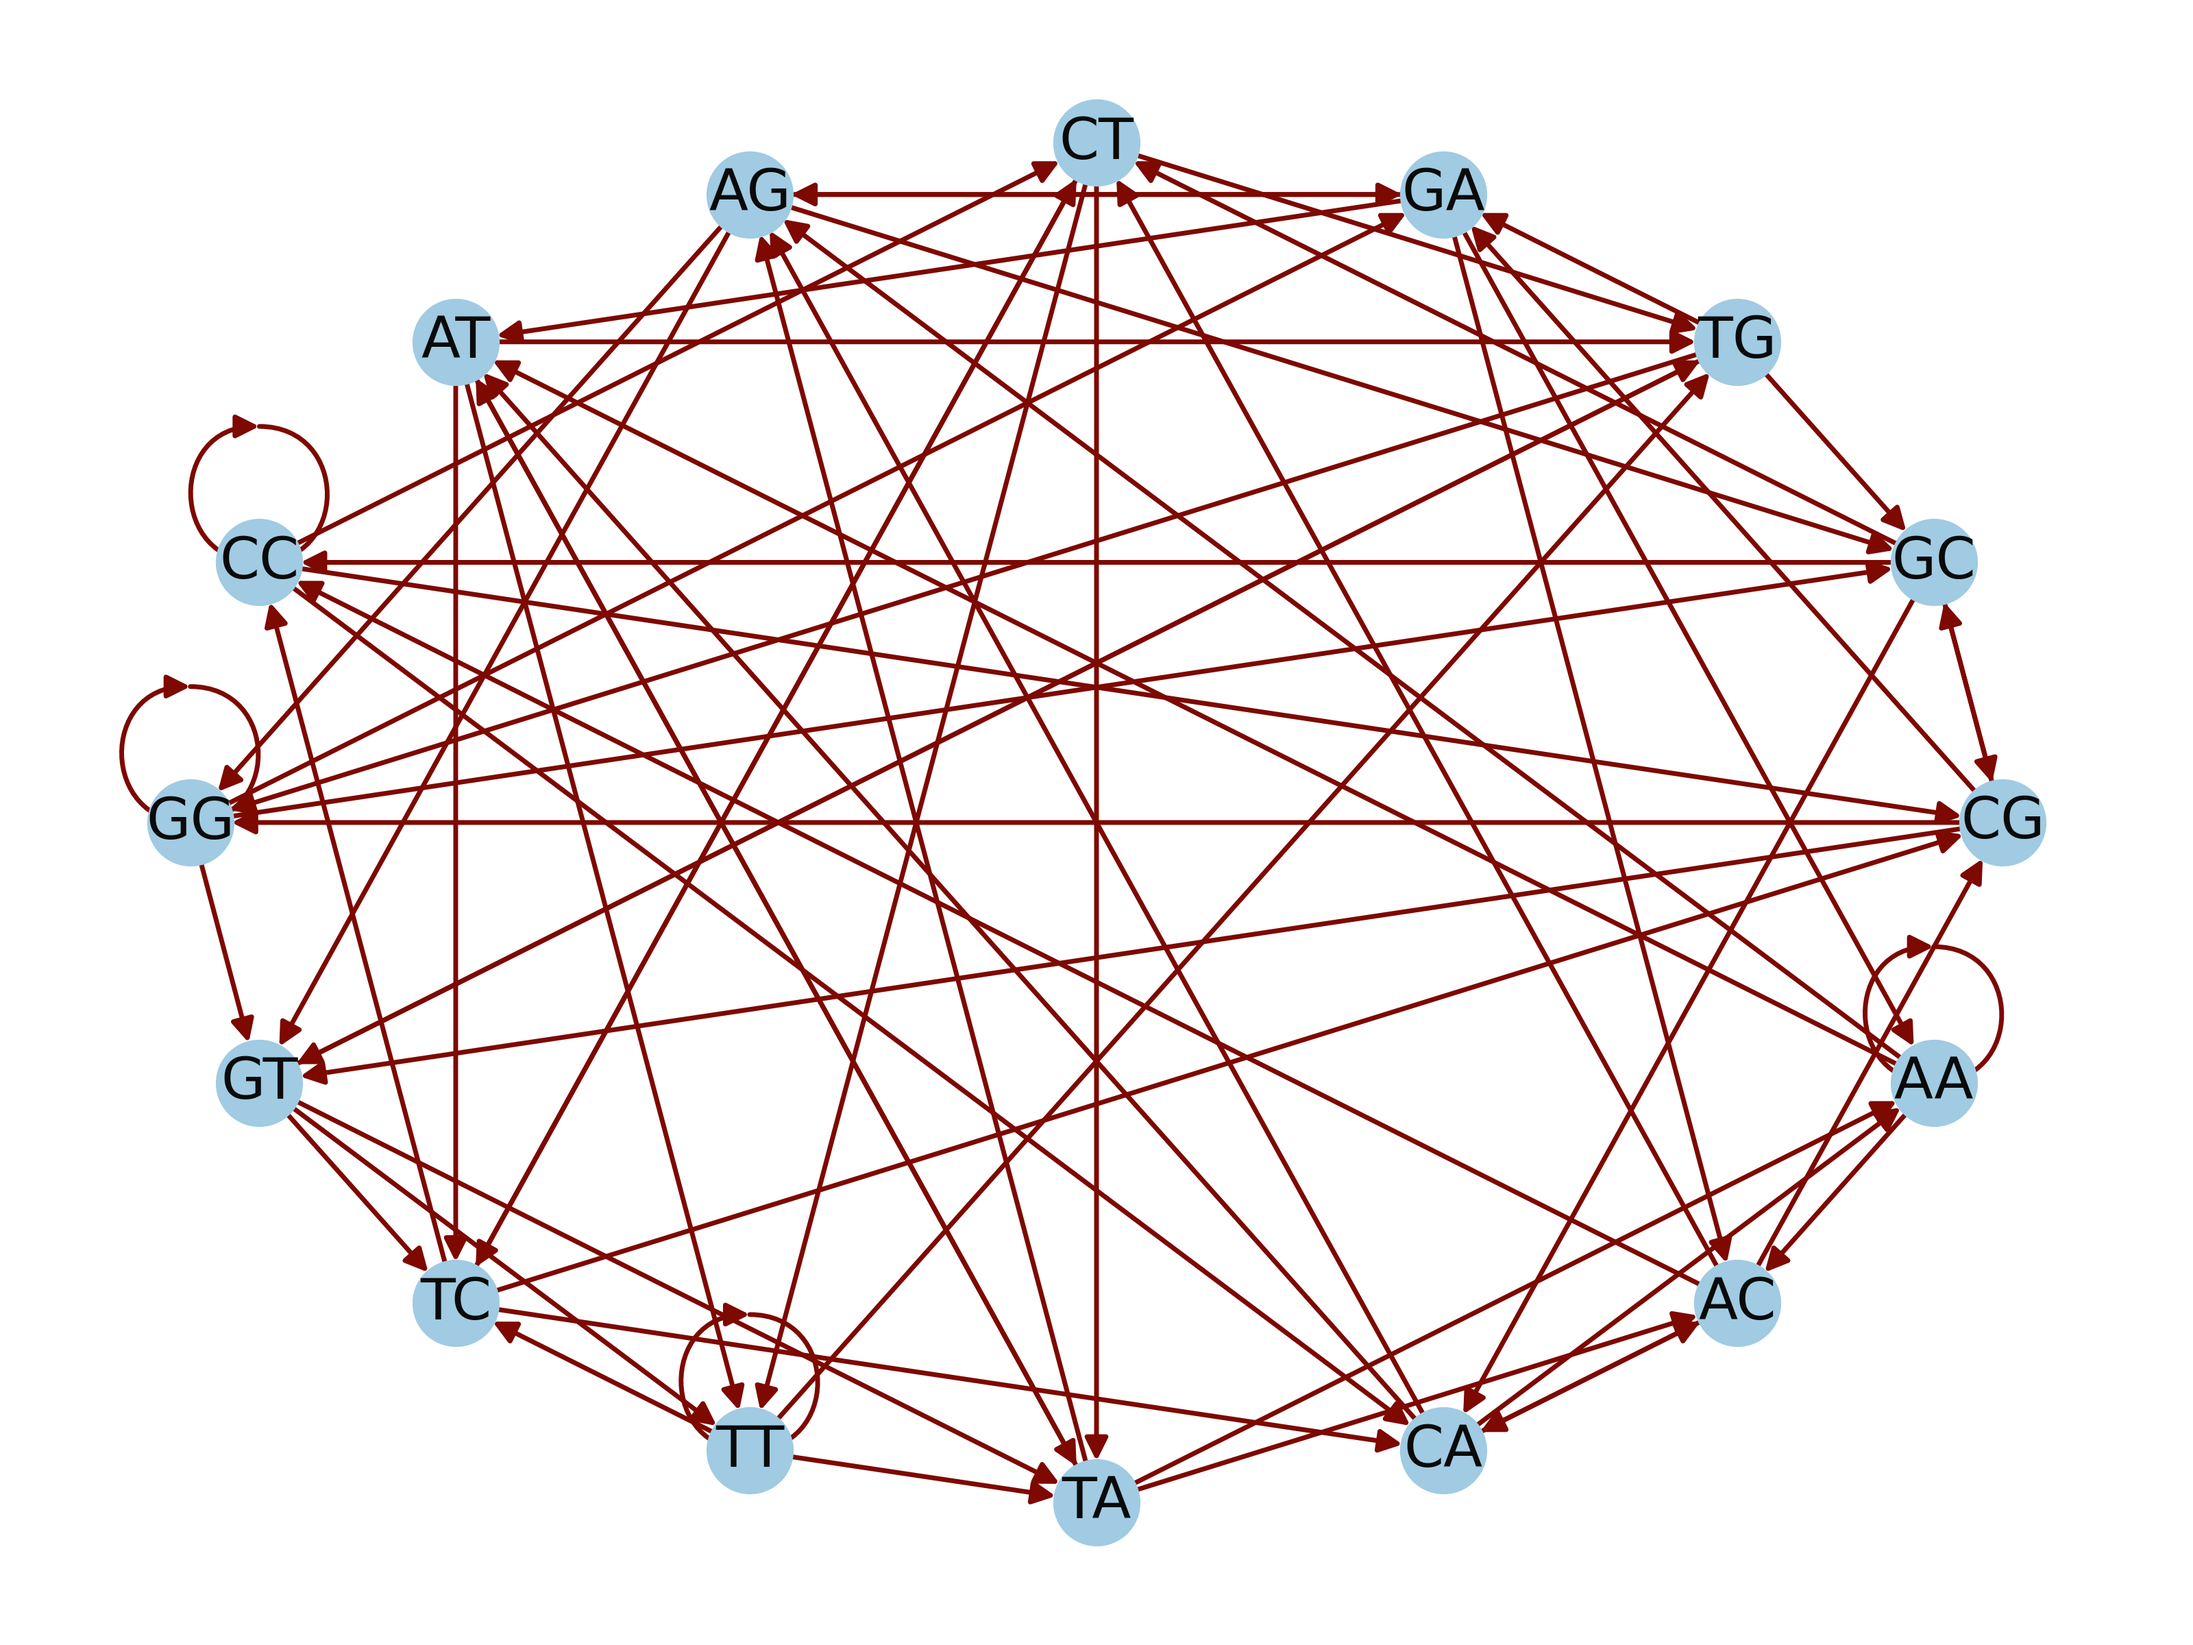
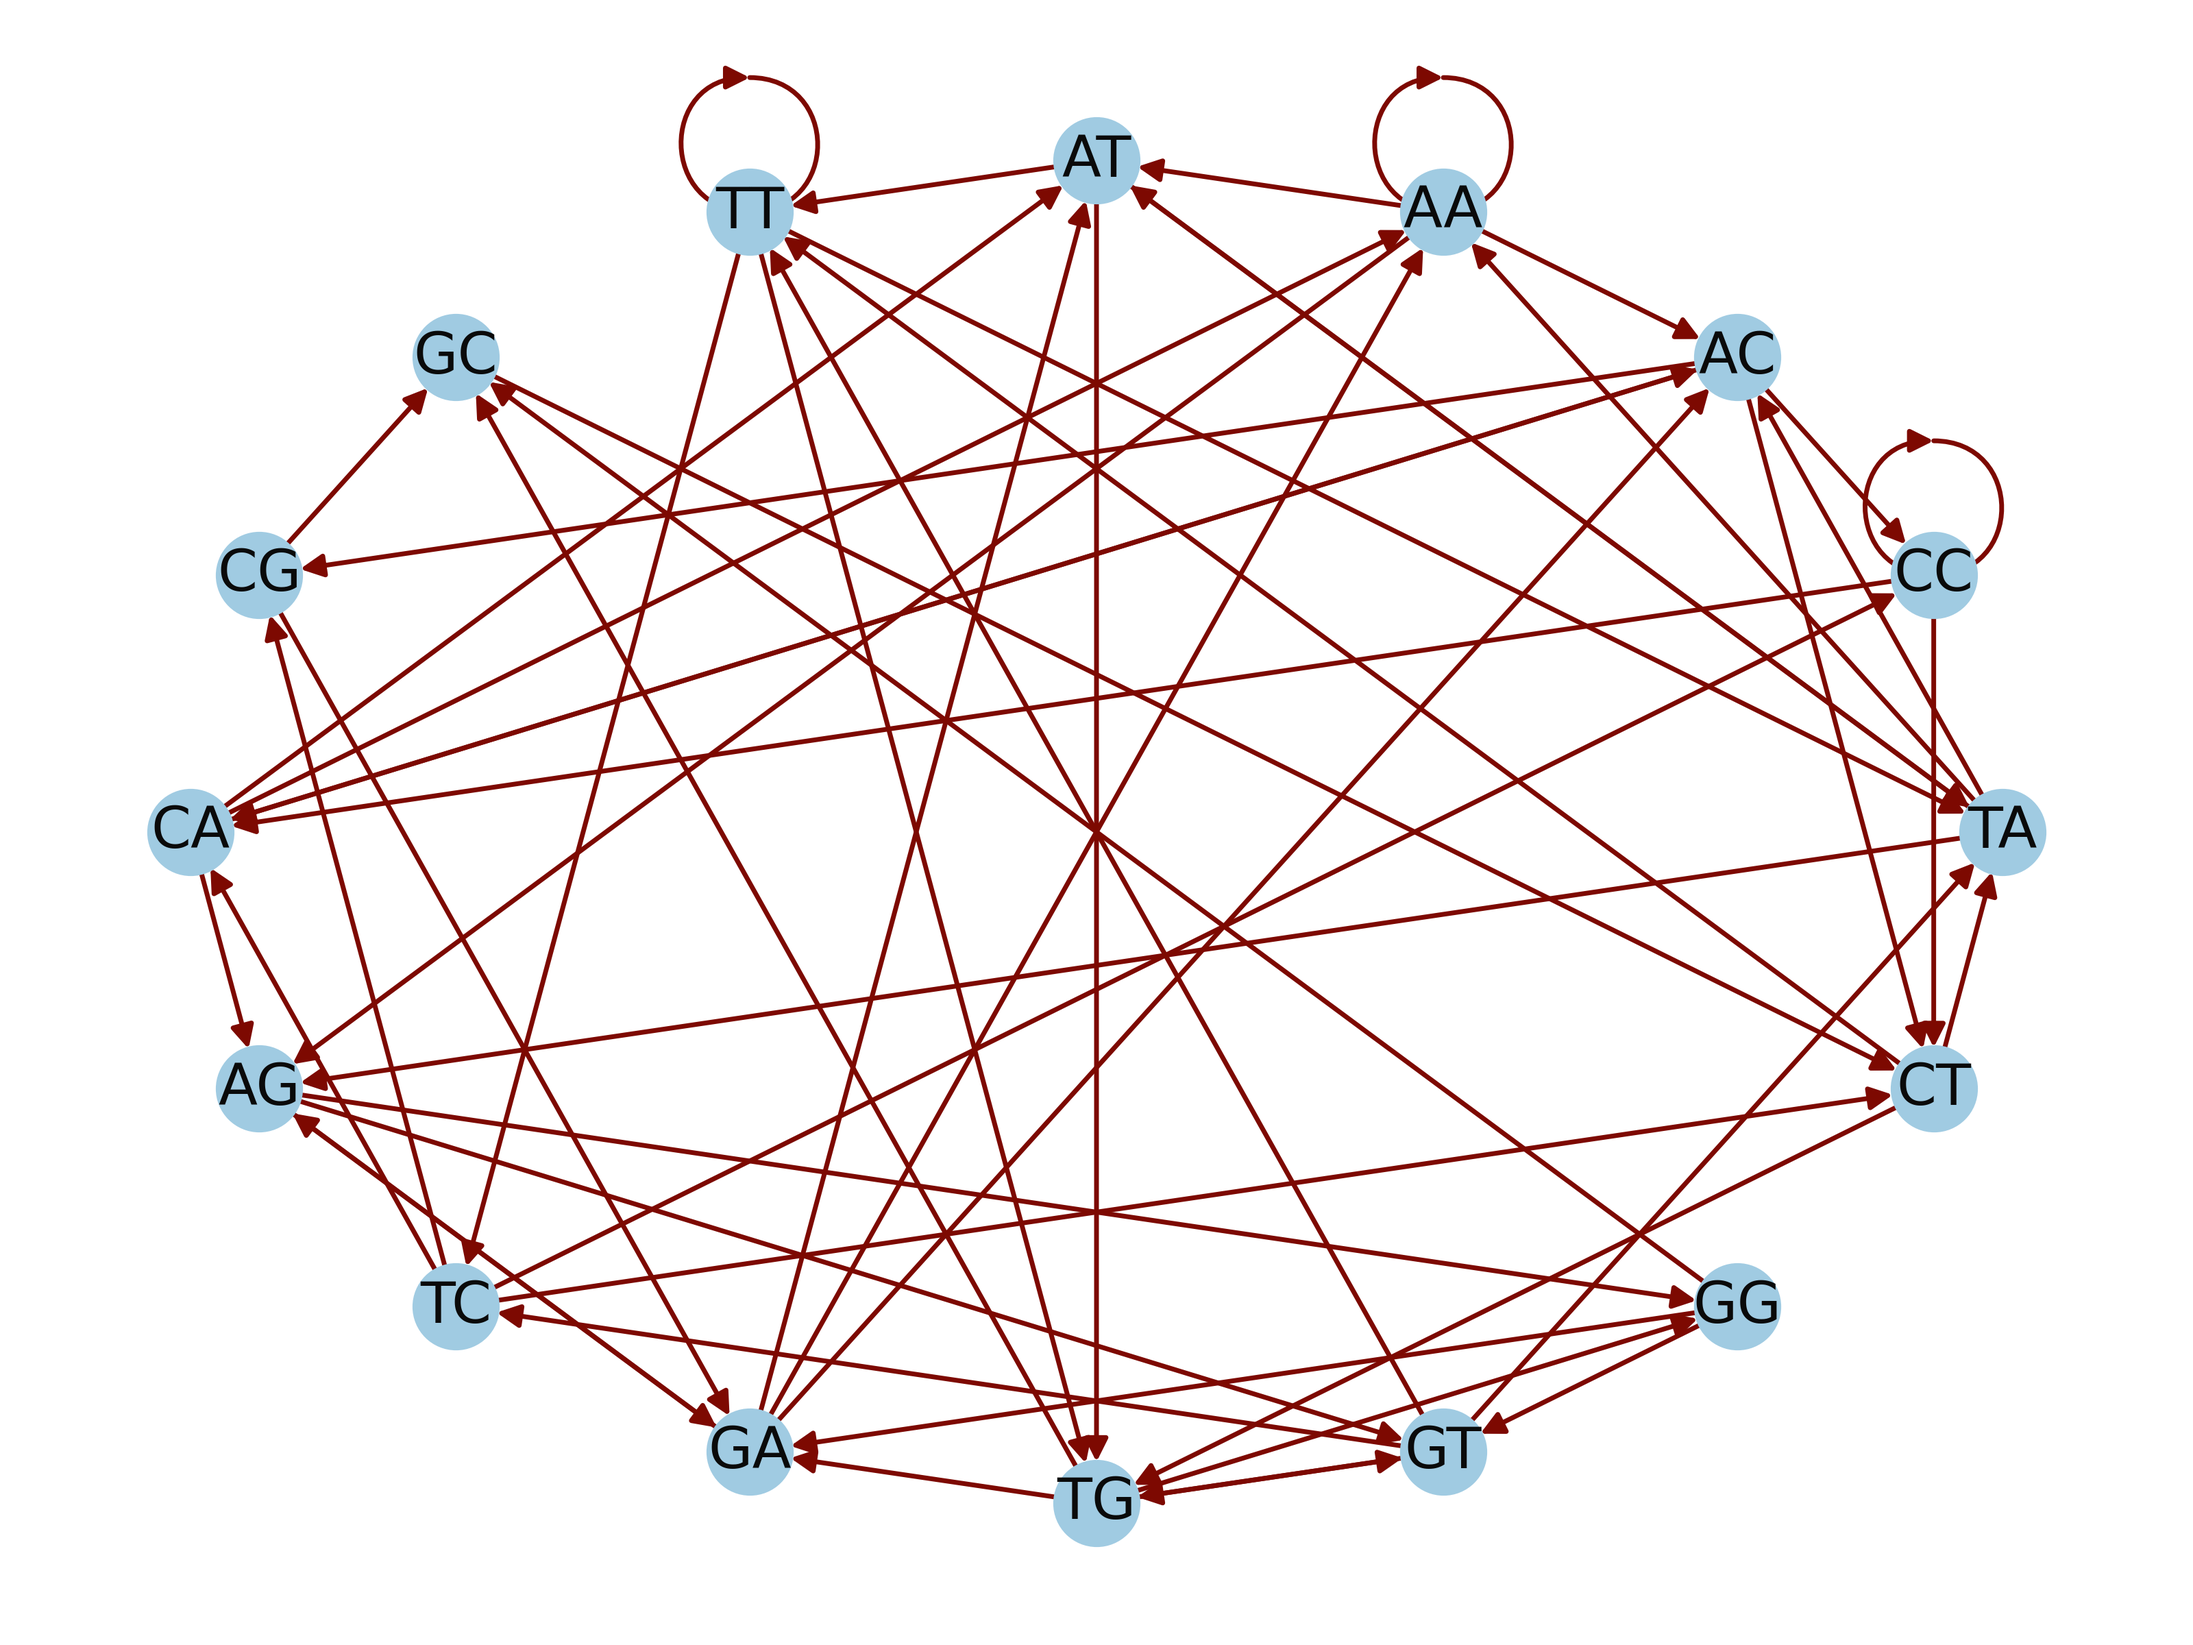
Adjusting graph settings and iteration of sequences

diff --git a/de_bruijn.py b/de_bruijn.py
@@ -8,31 +8,38 @@ https://eaton-lab.org/slides/genomics/answers/nb-10.2-de-Bruijn.html
 import matplotlib.pyplot as plt
 import networkx as nx               # Plotting directed graph
 from tqdm import tqdm               # Progress Bar
+import math
 
 class De_bruijn:
-    def __init__(self, seq = [], header = [], k=3, cycle=True):
+    def __init__(self, seq = [], header = [], num=2, k=3, cycle=True):
         self.header = header
         self.seq = seq
 
         self.kmers = {}
         self.edges = set()
-        self.de_bruijn_graph(k, cycle)
+        self.de_bruijn_graph(num=num, k=k, cycle=cycle)
 
     # ----------------------------------------------------------------------------------------------------------
     # Sets values for attributes self.kmer and self.edges
-    def de_bruijn_graph(self, k=3, cycle=True):
-
-        self.kmers = self.get_kmers(k, cycle)
+    def de_bruijn_graph(self, num=2, k=3, cycle=True):
+        
+        self.kmers = self.get_kmers(num, k, cycle)
         self.edges = self.get_edges(self.kmers)
 
     # ----------------------------------------------------------------------------------------------------------
     # Build a list of all kmers in the provided sequences
     # k: kmer size
     # cycle: sequence is cyclic or not
-    def get_kmers(self, k=3, cycle=True):
+    def get_kmers(self, num=2, k=3, cycle=True):
         kmers = {}
 
-        for s in tqdm(self.seq, desc=str(k)+'-mers'):    # Iterate thru sequences with progress bar
+        if(num > len(self.seq) or num < 1):             # Cannot exceed bounds of the list self.seq
+            print("ERROR: Invalid input for num!")
+            return kmers
+
+        seq = self.seq[:num-1]                          # Get kmers of these reads
+
+        for s in tqdm(seq, desc=str(k)+'-mers'):   # Iterate thru sequences with progress bar
             #print("Sequence: ", s)
 
             for i in range(0, len(s)):              # Iterate thru a sequence to find kmers
@@ -114,14 +121,16 @@ class De_bruijn:
             fig = nx.DiGraph()                  # Initialize weighted graph
             fig.add_edges_from(self.edges)      # Add edges to weighted graph
             bar.update(1)
-            pos = nx.shell_layout(fig)          # Set layout to shell (circular)
+            k = 0.3/math.sqrt(fig.order())
+            pos = nx.spring_layout(fig, k=k)          # Set layout to shell (circular)
             bar.update(1)
 
             options = {
                 "node_color": "#A0CBE2",
+                "node_size": 20,
                 "edge_color": "#7d0901",
                 "with_labels": True,            # Show kmer labels
-                "font_size": 12,
+                "font_size": 5,
                 "font_color": "#0a0a0a"
             }
 

diff --git a/main.py b/main.py
@@ -71,7 +71,7 @@ def main():
     elif(len(sys.argv) == 1):
         fna_file = "./input/sars_spike_protein_reads.fastq"
         data = get_data(fna_file)                                                       # Processing genome data from fna file
-        k = 7
+        k = 10
 
         db_graph = db.De_bruijn(data[0], data[1], k=k)                                       # Create de Bruijn graph
         db_graph.make_docs(True,True,True, str(k))
